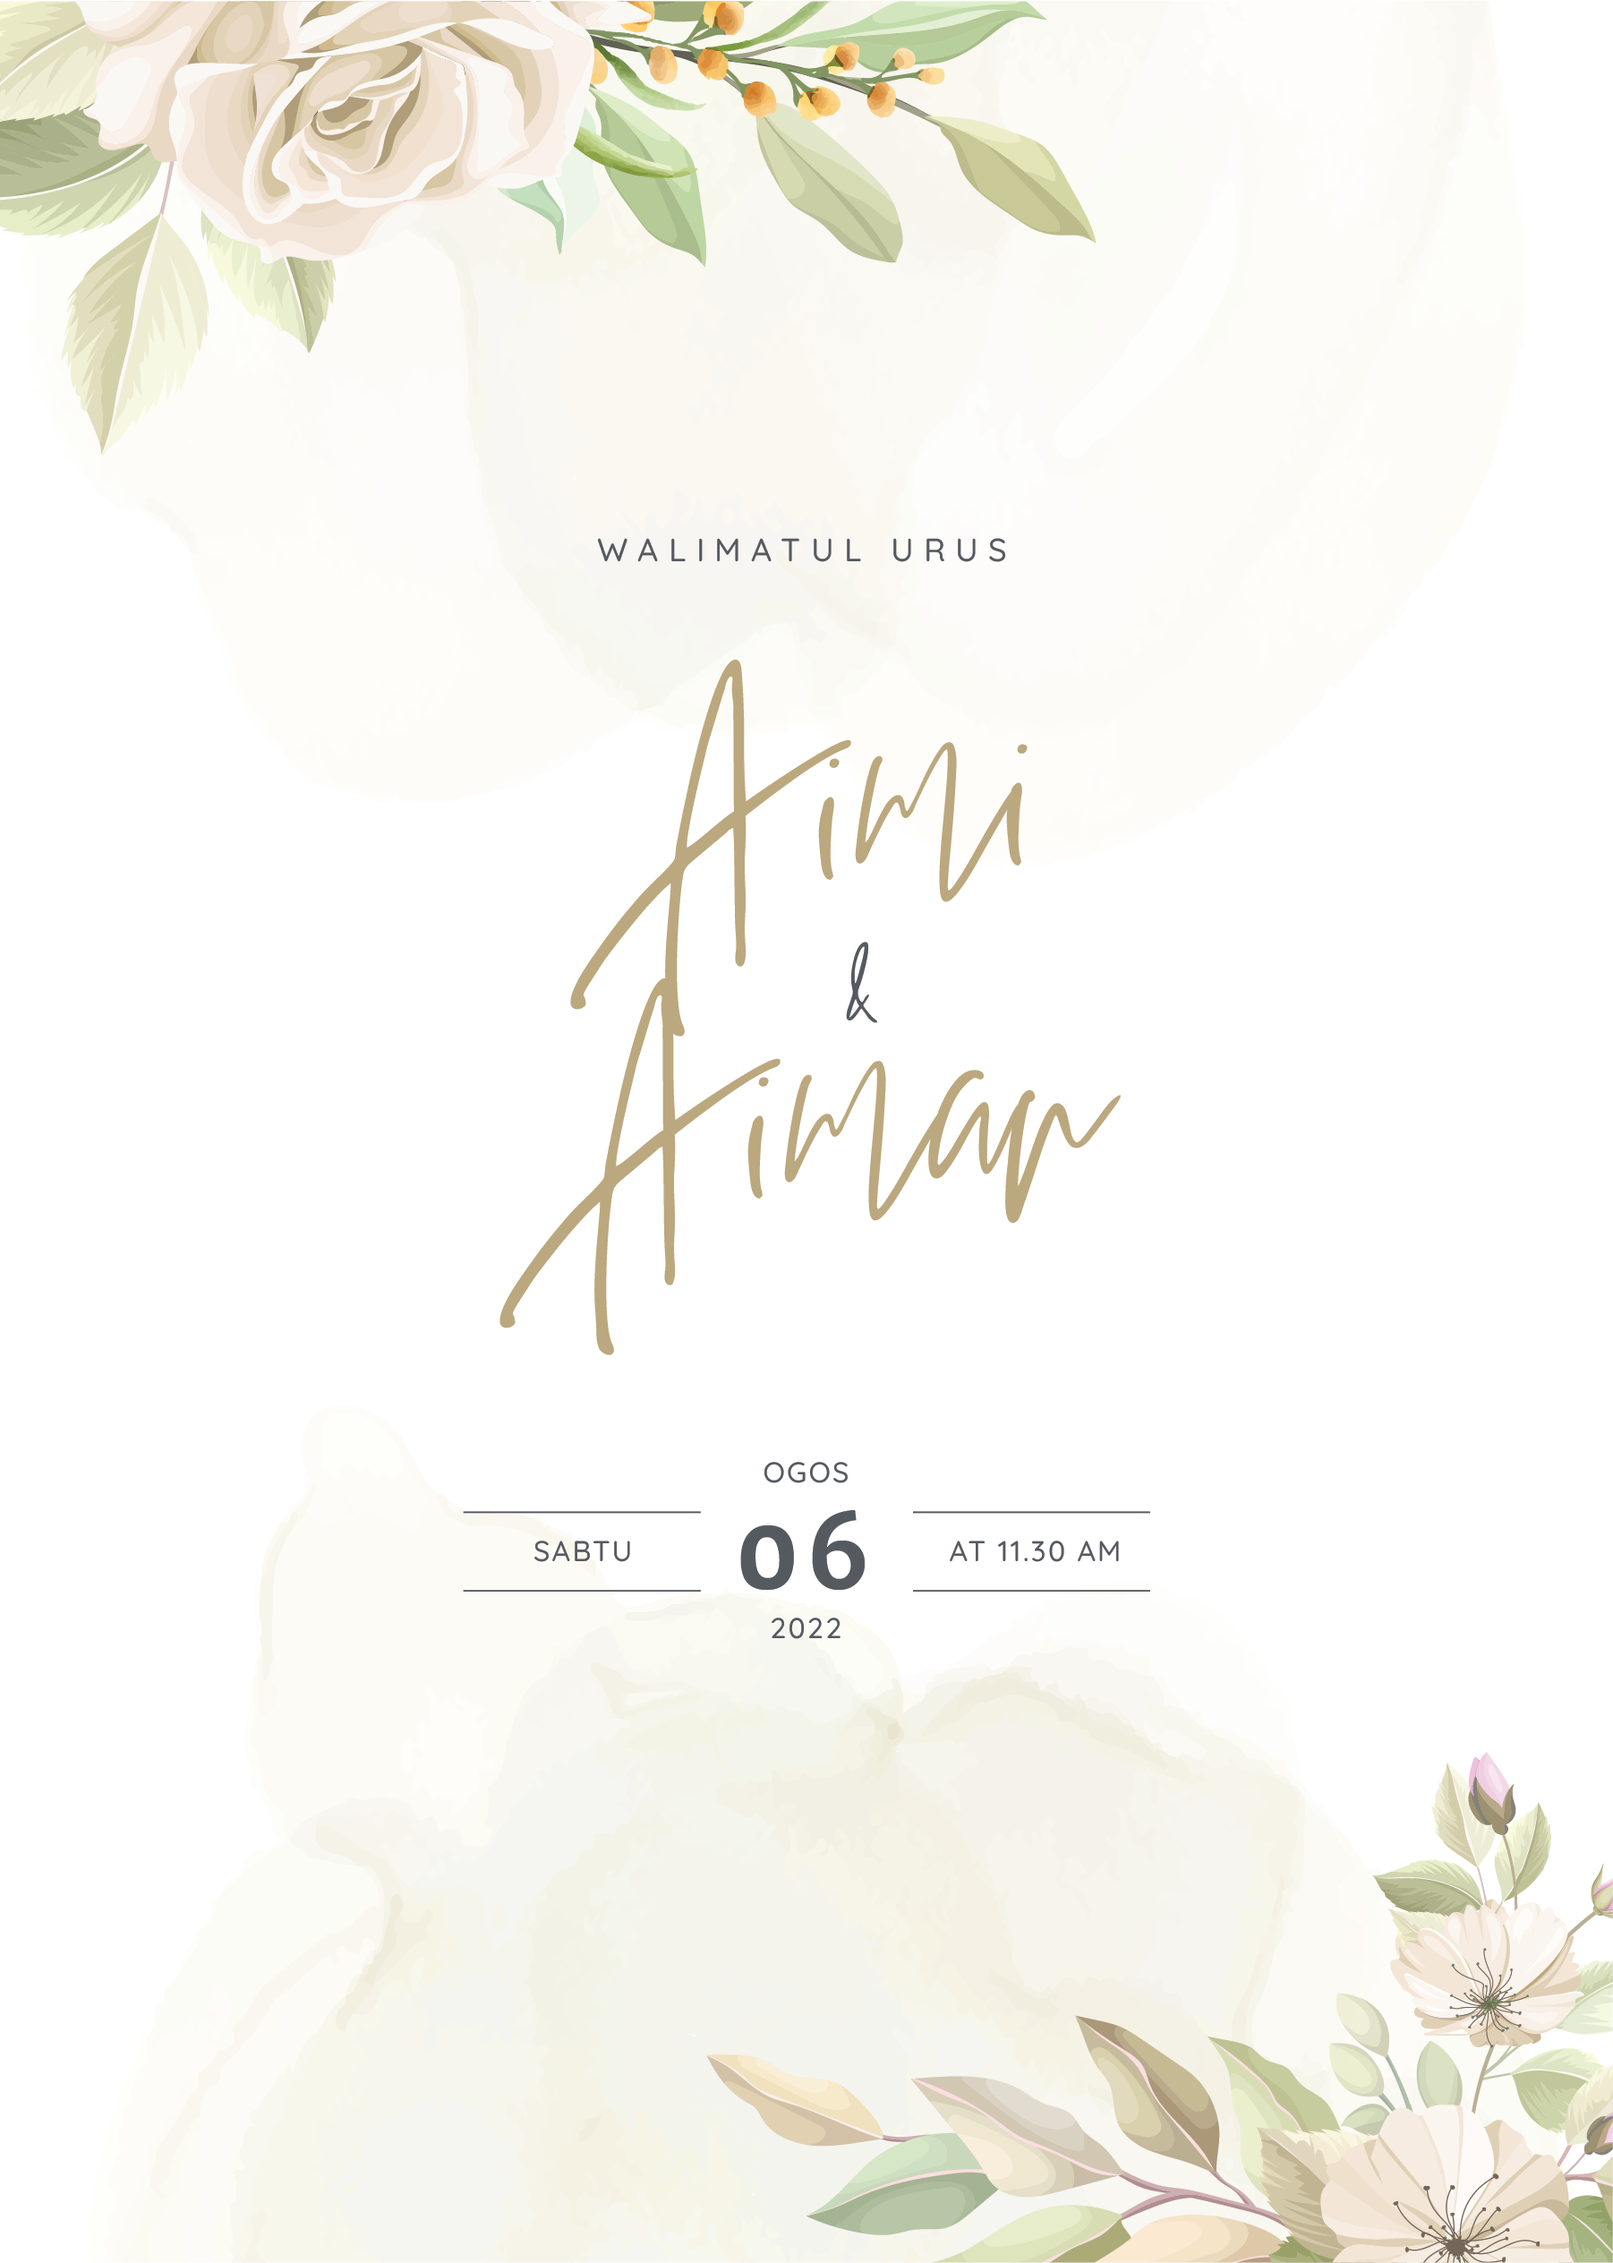
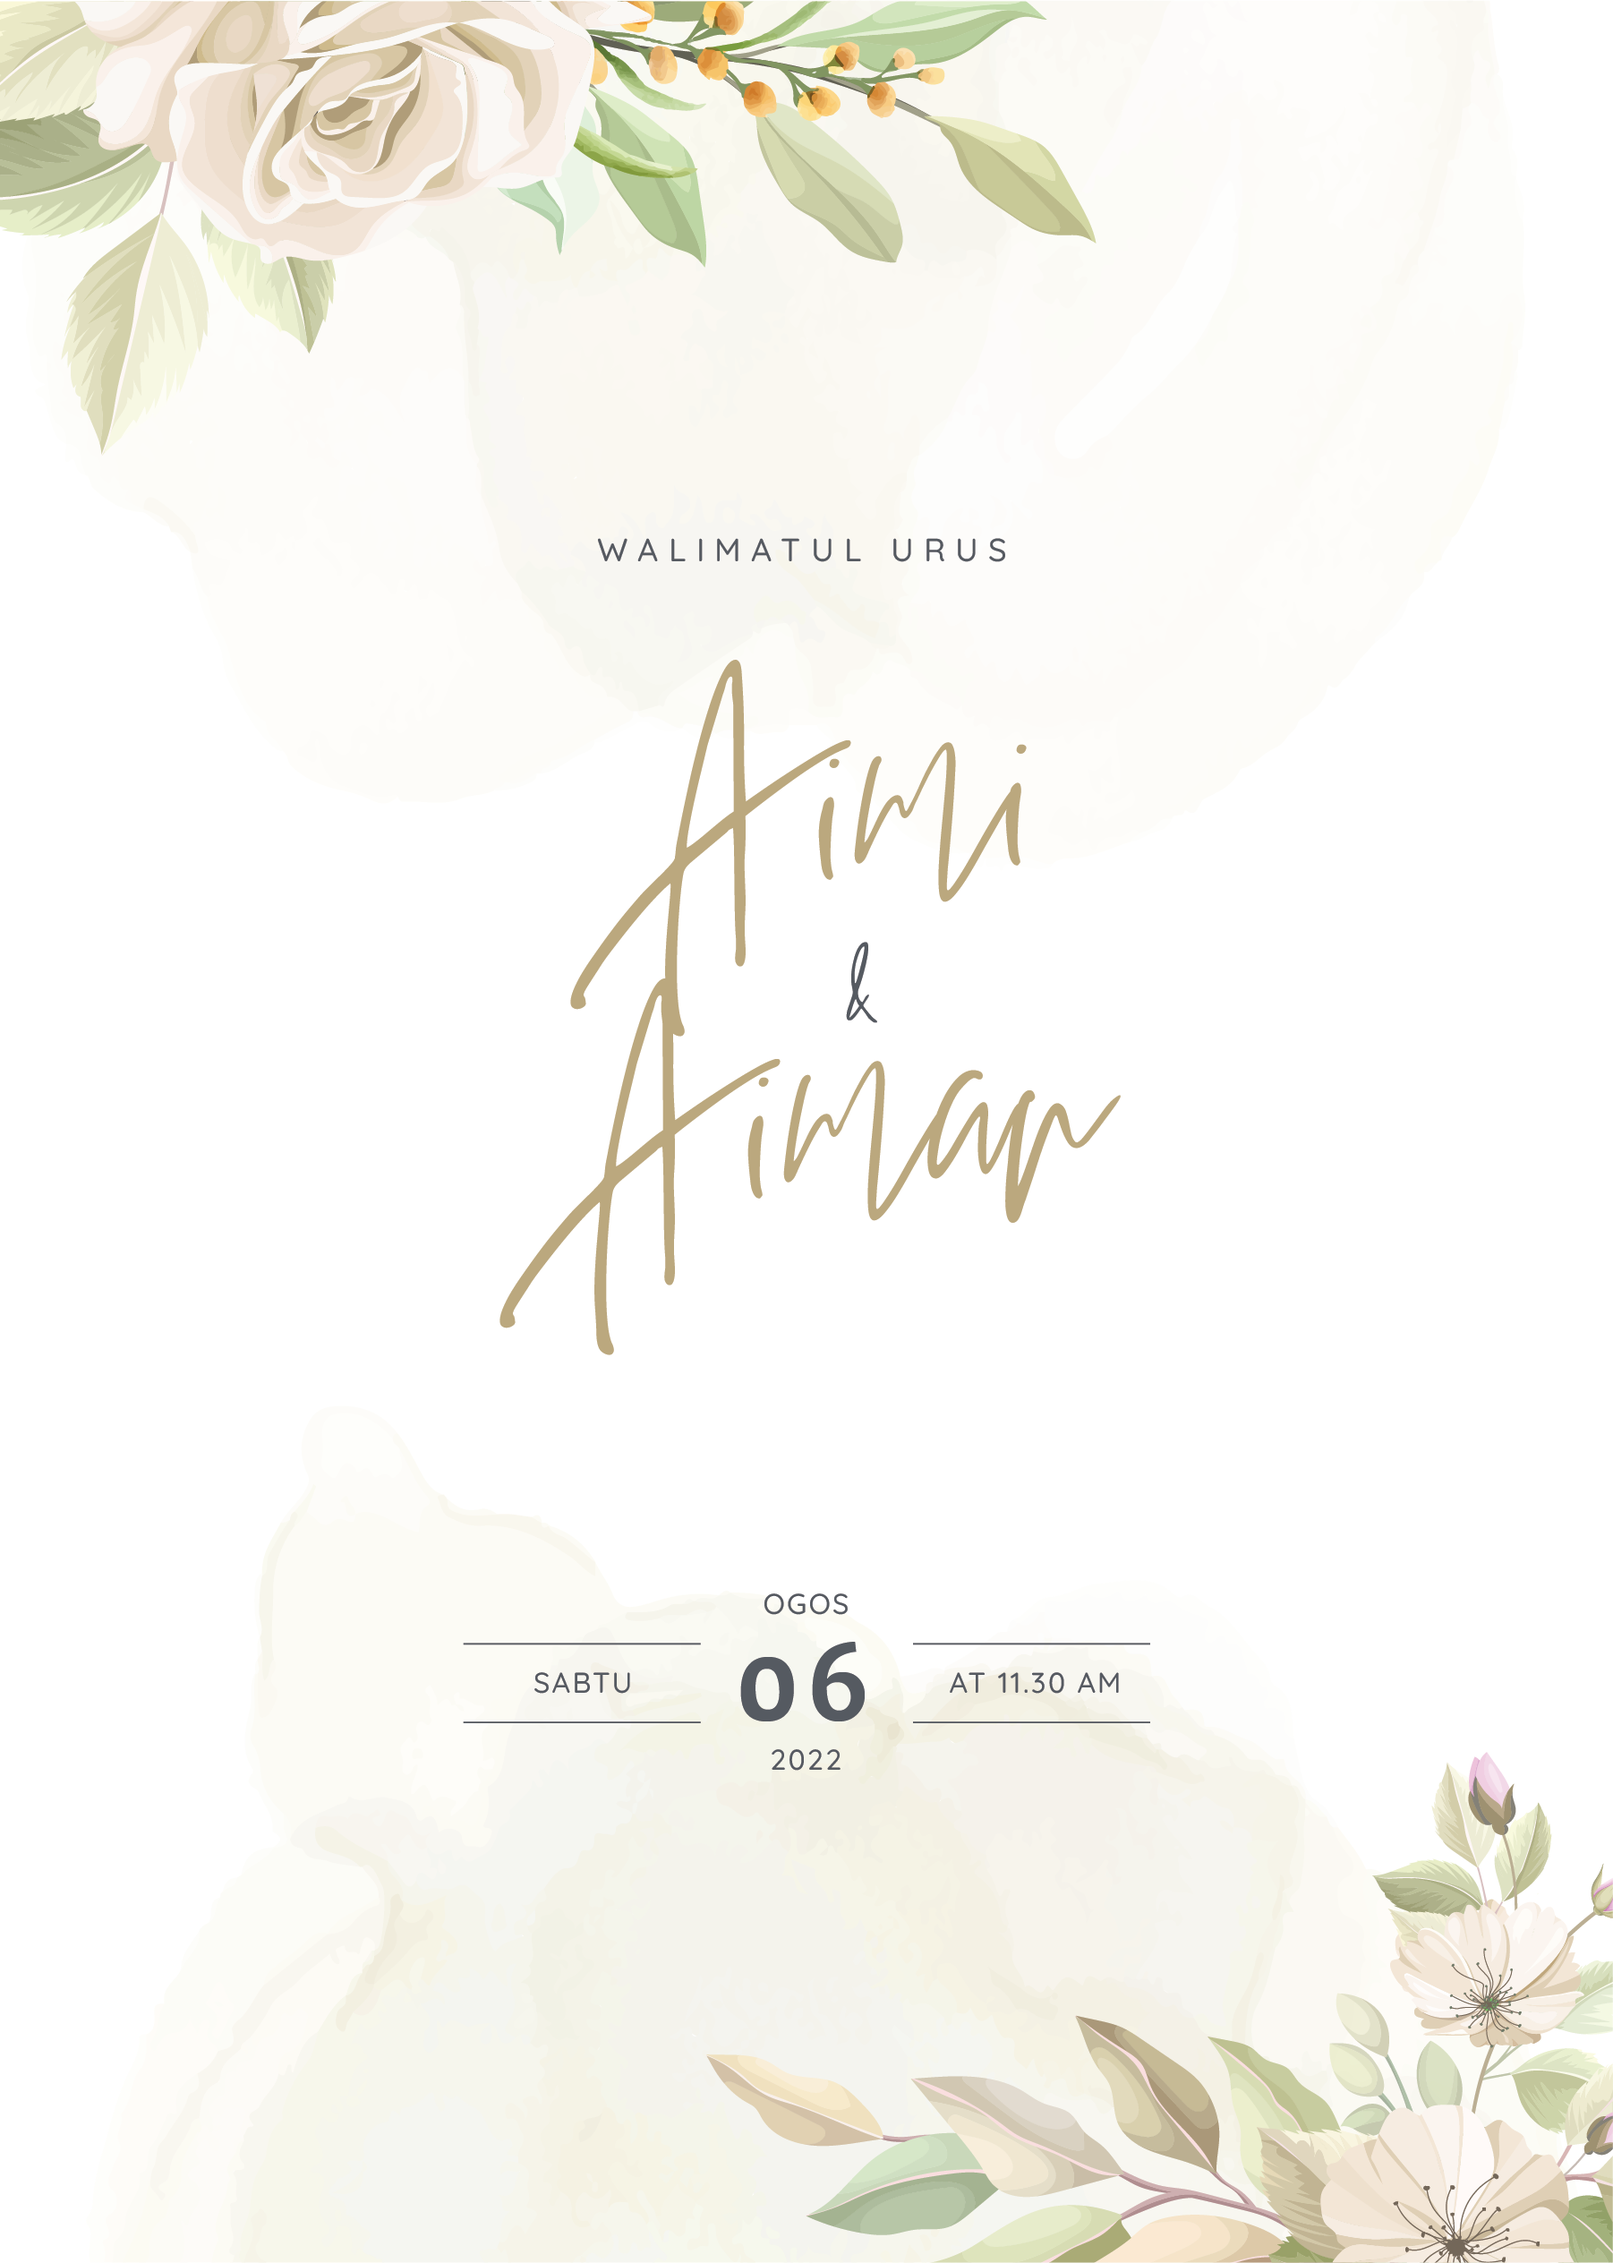
k

diff --git a/home.html b/home.html
@@ -49,8 +49,8 @@
 
 
 <body>
-	
-	
+
+
 	<div class="page-content-scroll">
 		<div class="cover-class cover-bg-1">
 		</div>
@@ -76,12 +76,12 @@
 			<br><br><br>
 		</div>
 		<div style="text-align: center;">
-		<audio id="myAudio" autoplay="autoplay" loop="loop" controls="controls">
-			<source src="sound/BeautifulInWhite.mp3" type="audio/mpeg" />
-			<source src="sound/BeautifulInWhite.ogg" type="audio/mpeg" />
-			<source src="sound/BeautifulInWhite.wav" type="audio/mpeg" />
-		</audio>
-		<br><br><br><br><br><br>
+			<audio id="myAudio" autoplay="autoplay" loop="loop" controls="controls">
+				<source src="sound/BeautifulInWhite.mp3" type="audio/mpeg" />
+				<source src="sound/BeautifulInWhite.ogg" type="audio/mpeg" />
+				<source src="sound/BeautifulInWhite.wav" type="audio/mpeg" />
+			</audio>
+			<br><br><br><br><br><br>
 		</div>
 	</div>
 
@@ -432,7 +432,7 @@
 
 <script>
 	function updateTimer() {
-		future = Date.parse("feb 26, 2022 11:30:00");
+		future = Date.parse("aug 06, 2022 11:30:00");
 		now = new Date();
 		diff = future - now;
 

diff --git a/index.html b/index.html
@@ -21,7 +21,7 @@
     <script src="css/js/bootstrap.min.js"></script>
     <!--script-->
     <link href='//fonts.googleapis.com/css?family=Montserrat:400,700' rel='stylesheet' type='text/css'>
-    <title>Walimatul Urus Zuliana | Tarmimi </title>
+    <title>Walimatul Urus Aimi | Aiman </title>
     <!--AMP HTML files require a canonical link pointing to the regular HTML. If no HTML version exists, it should point to itself.-->
     <link rel="icon" href="images/icons/rings.png">
 </head>

diff --git a/css/style.css b/css/style.css
@@ -854,7 +854,7 @@ input[type="date"]::-webkit-clear-button {
     position: relative;
     width: 70vmin;
     height: 70vmin;
-    background: #89c2d9;
+    background: #7c6744;
     -webkit-clip-path: polygon(
       50% 0%,
       83% 12%,
